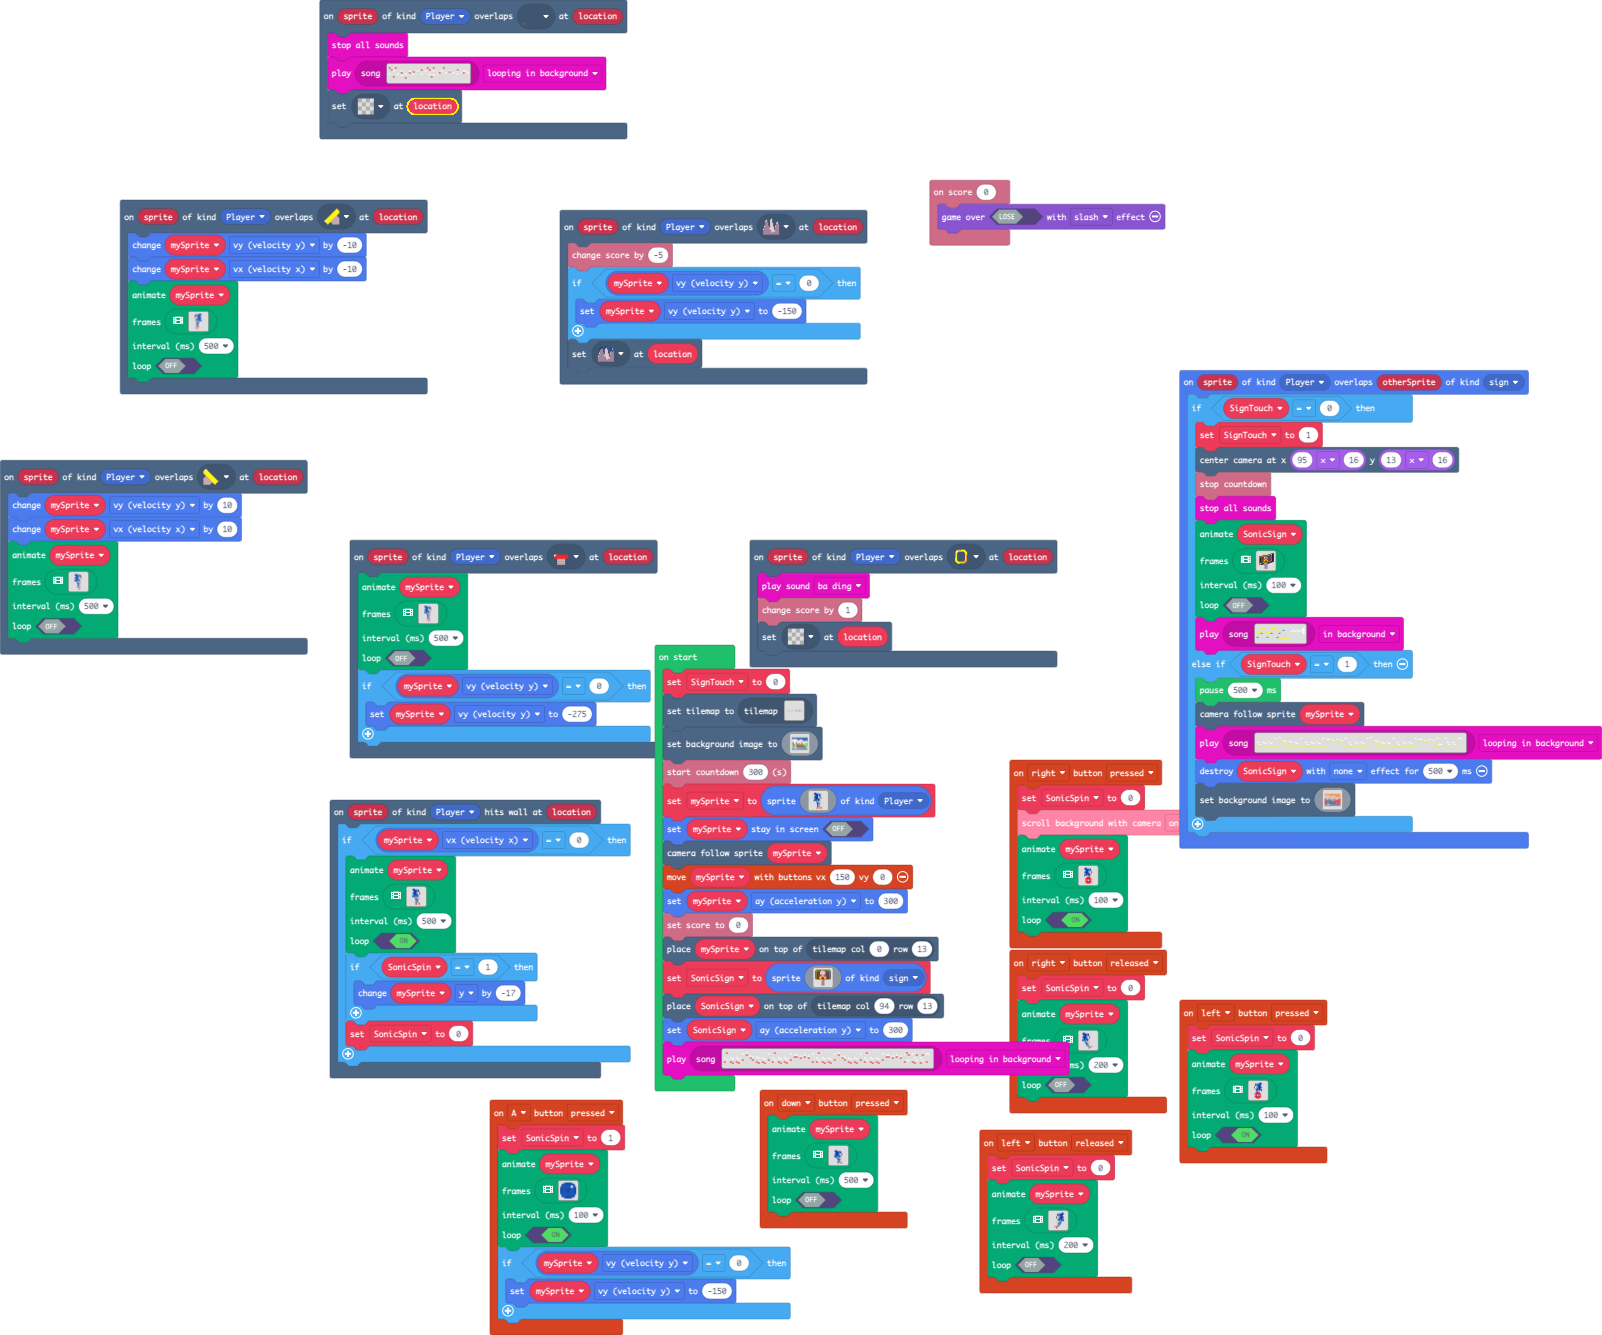
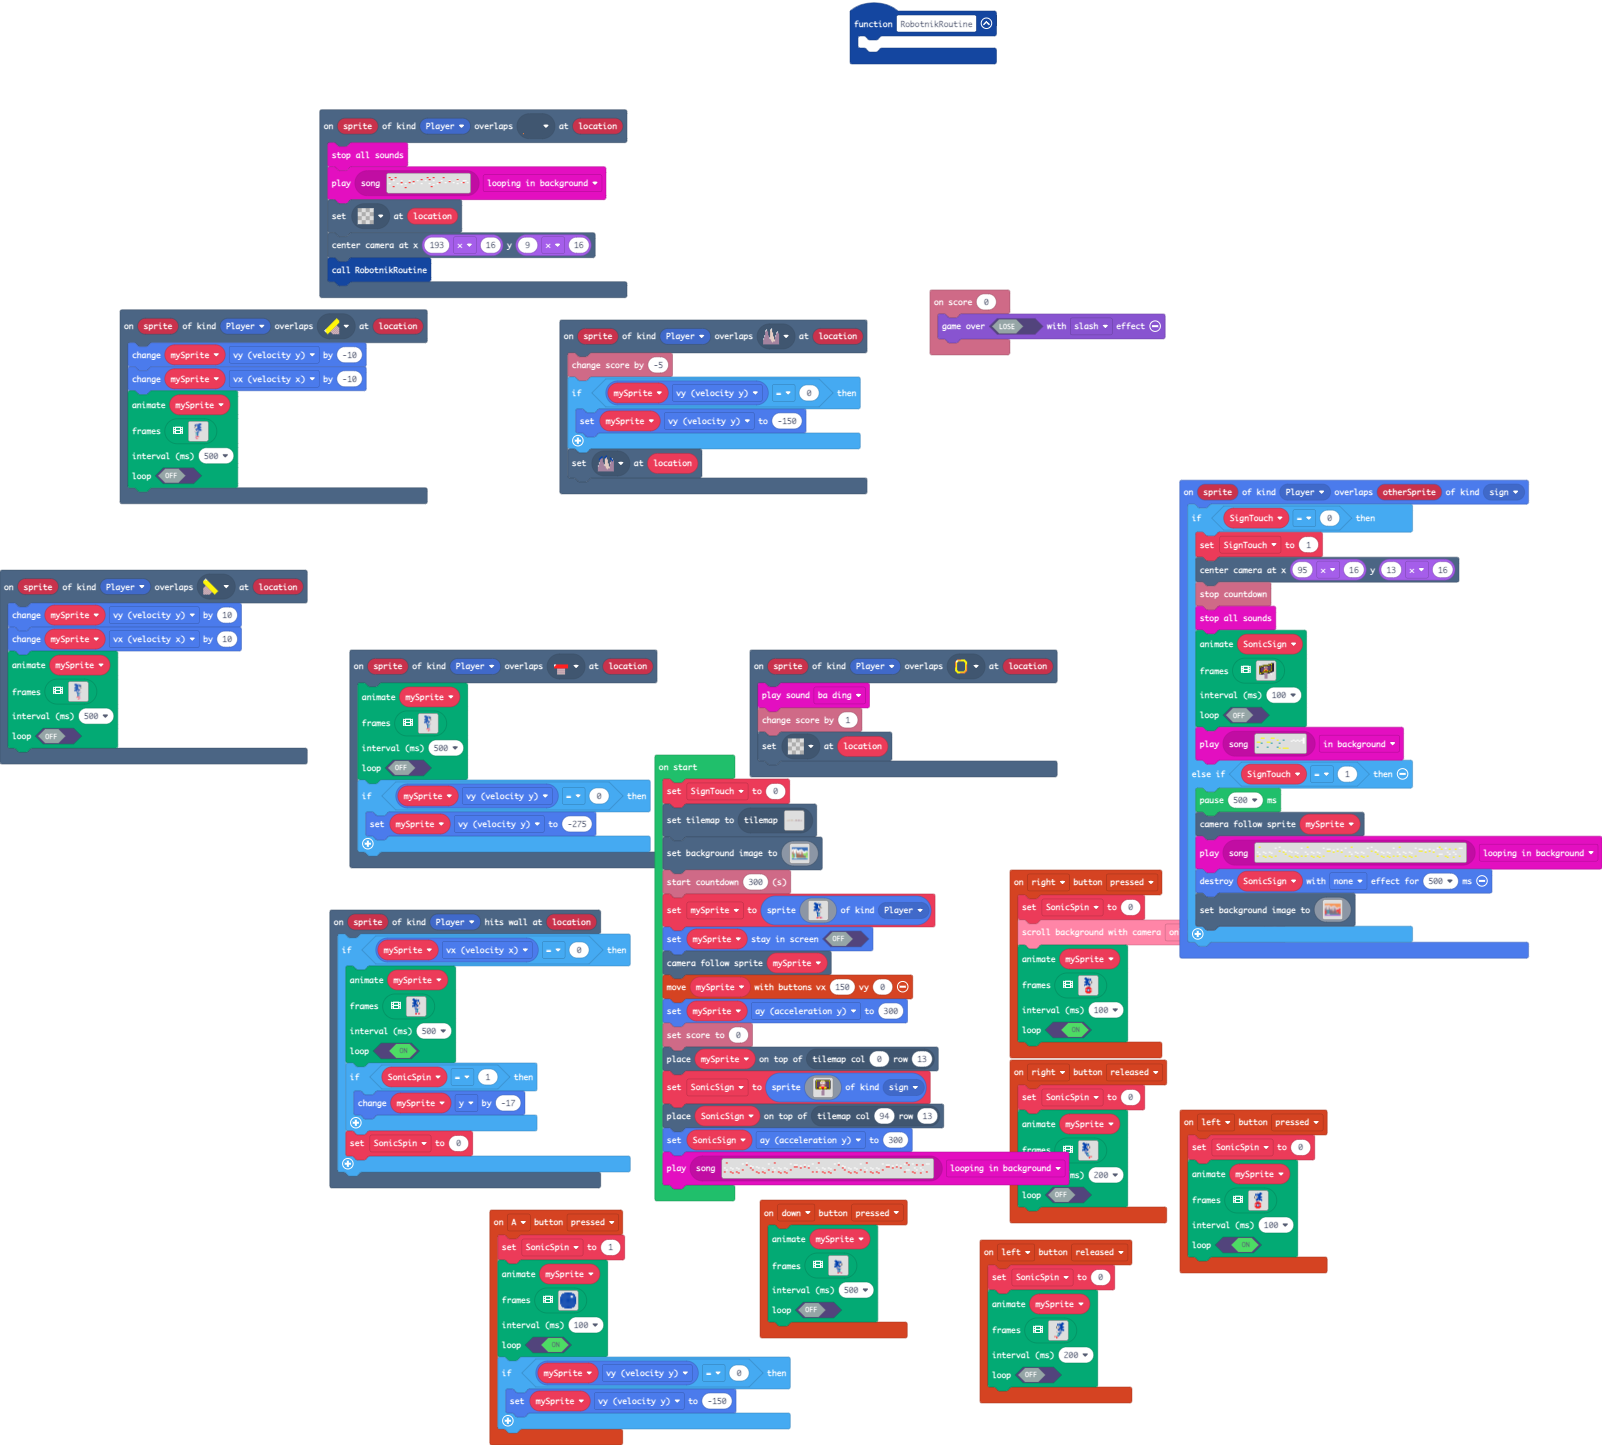
Update main.blocks, main.ts

diff --git a/main.ts b/main.ts
@@ -1,6 +1,9 @@
 namespace SpriteKind {
     export const sign = SpriteKind.create()
 }
+function RobotnikRoutine () {
+	
+}
 scene.onHitWall(SpriteKind.Player, function (sprite, location) {
     if (mySprite.vx == 0) {
         animation.runImageAnimation(
@@ -789,6 +792,8 @@ scene.onOverlapTile(SpriteKind.Player, assets.tile`myTile3`, function (sprite, l
     music.stopAllSounds()
[1 lines of base64/hex data omitted]
     tiles.setTileAt(location, assets.tile`transparency16`)
+    scene.centerCameraAt(193 * 16, 9 * 16)
+    RobotnikRoutine()
 })
 controller.right.onEvent(ControllerButtonEvent.Released, function () {
     SonicSpin = 0
